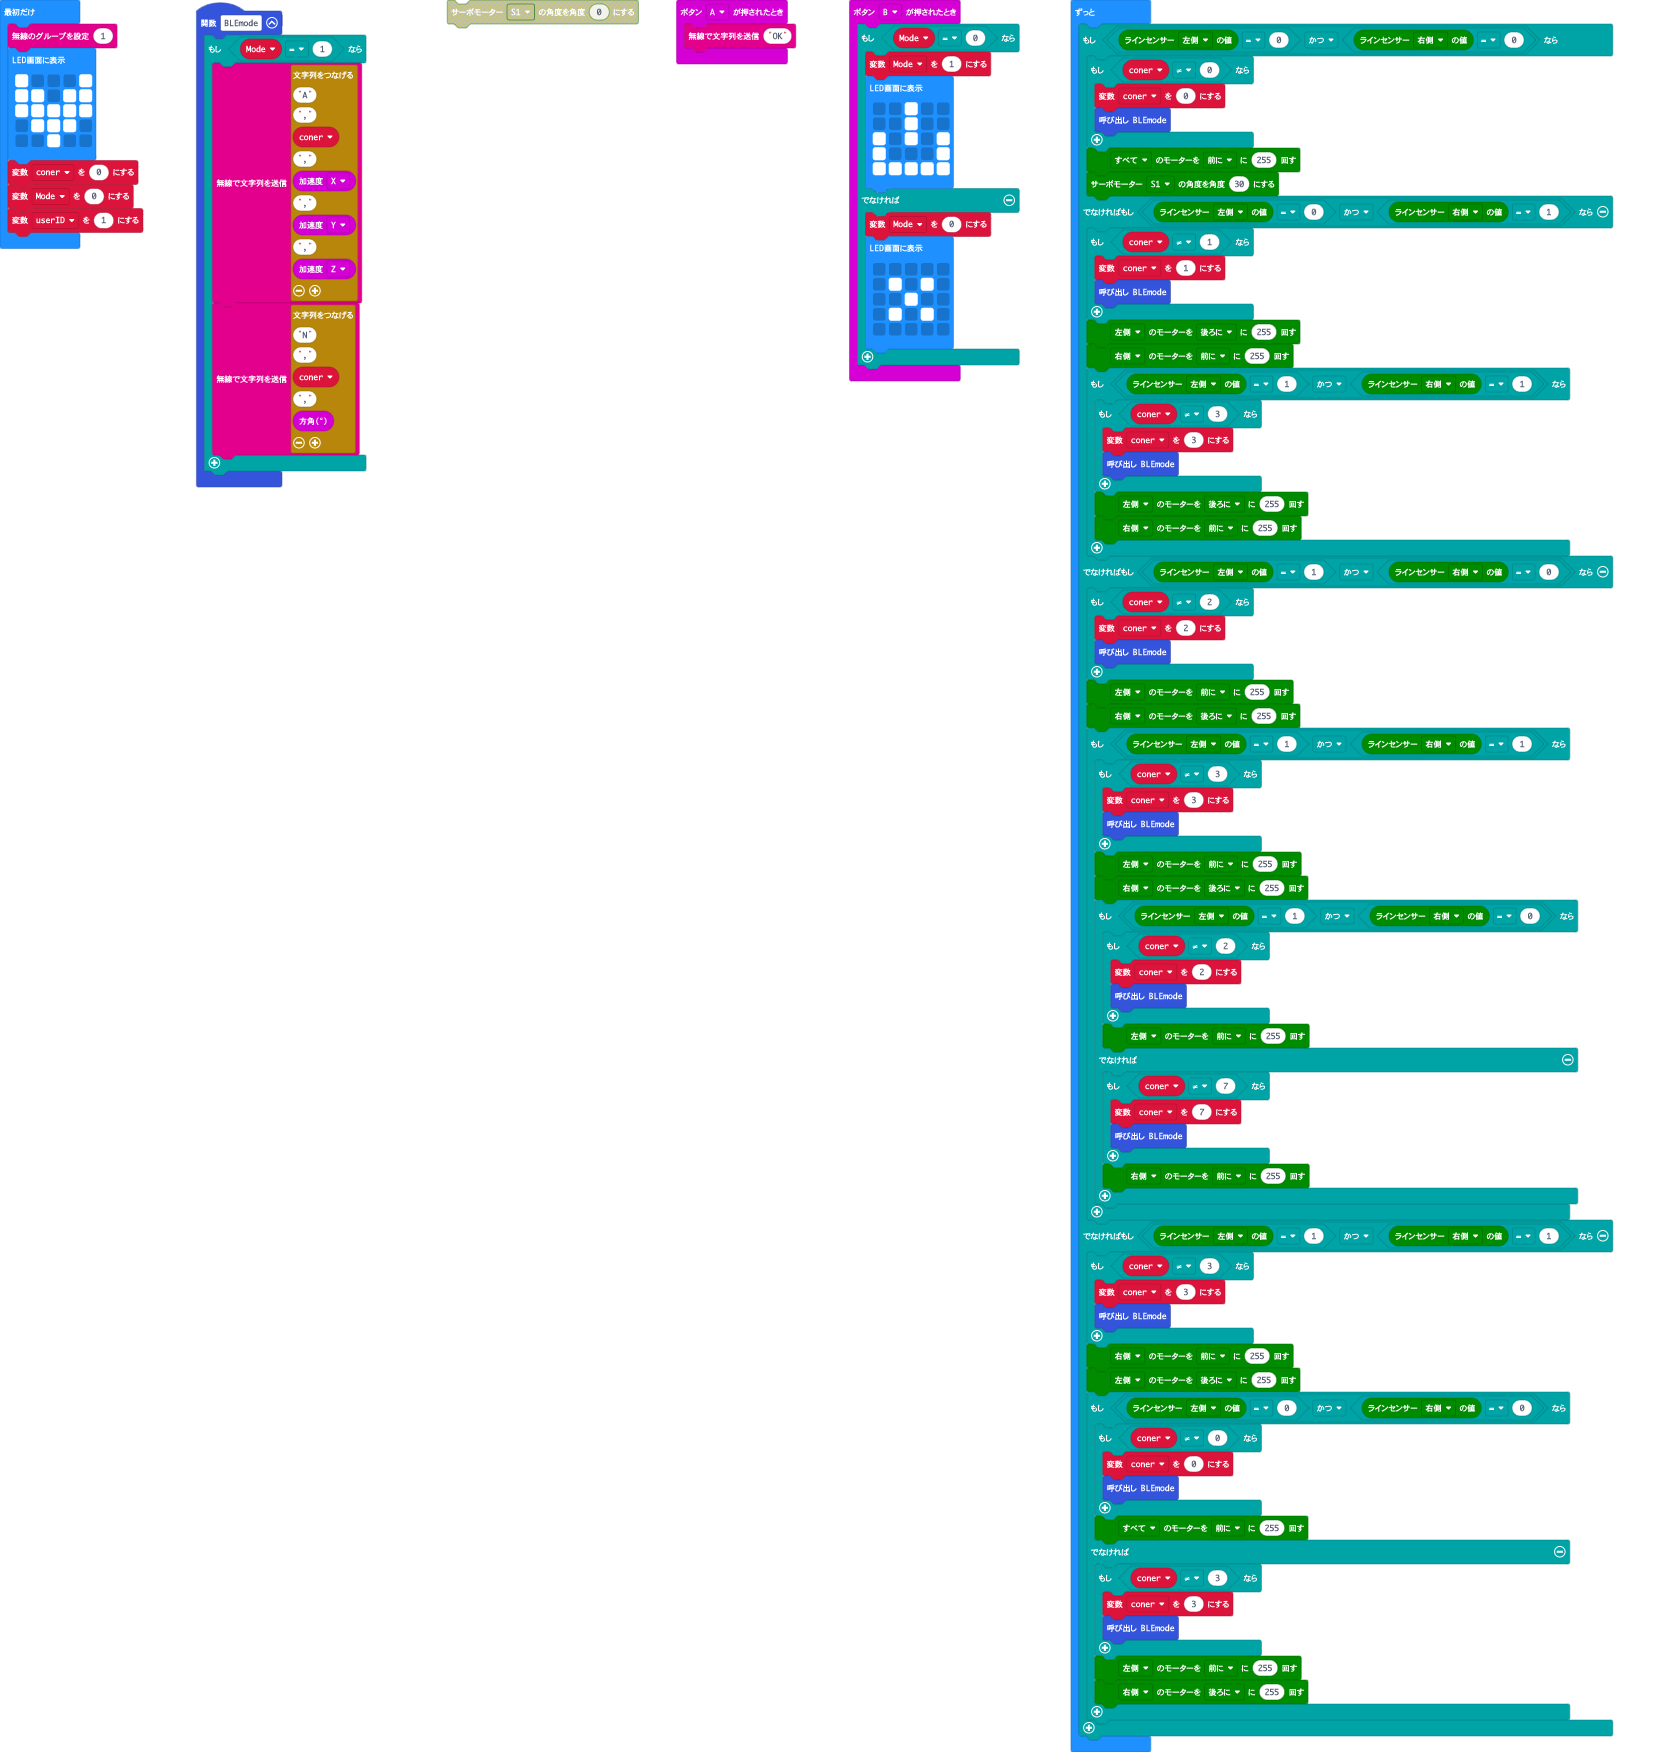
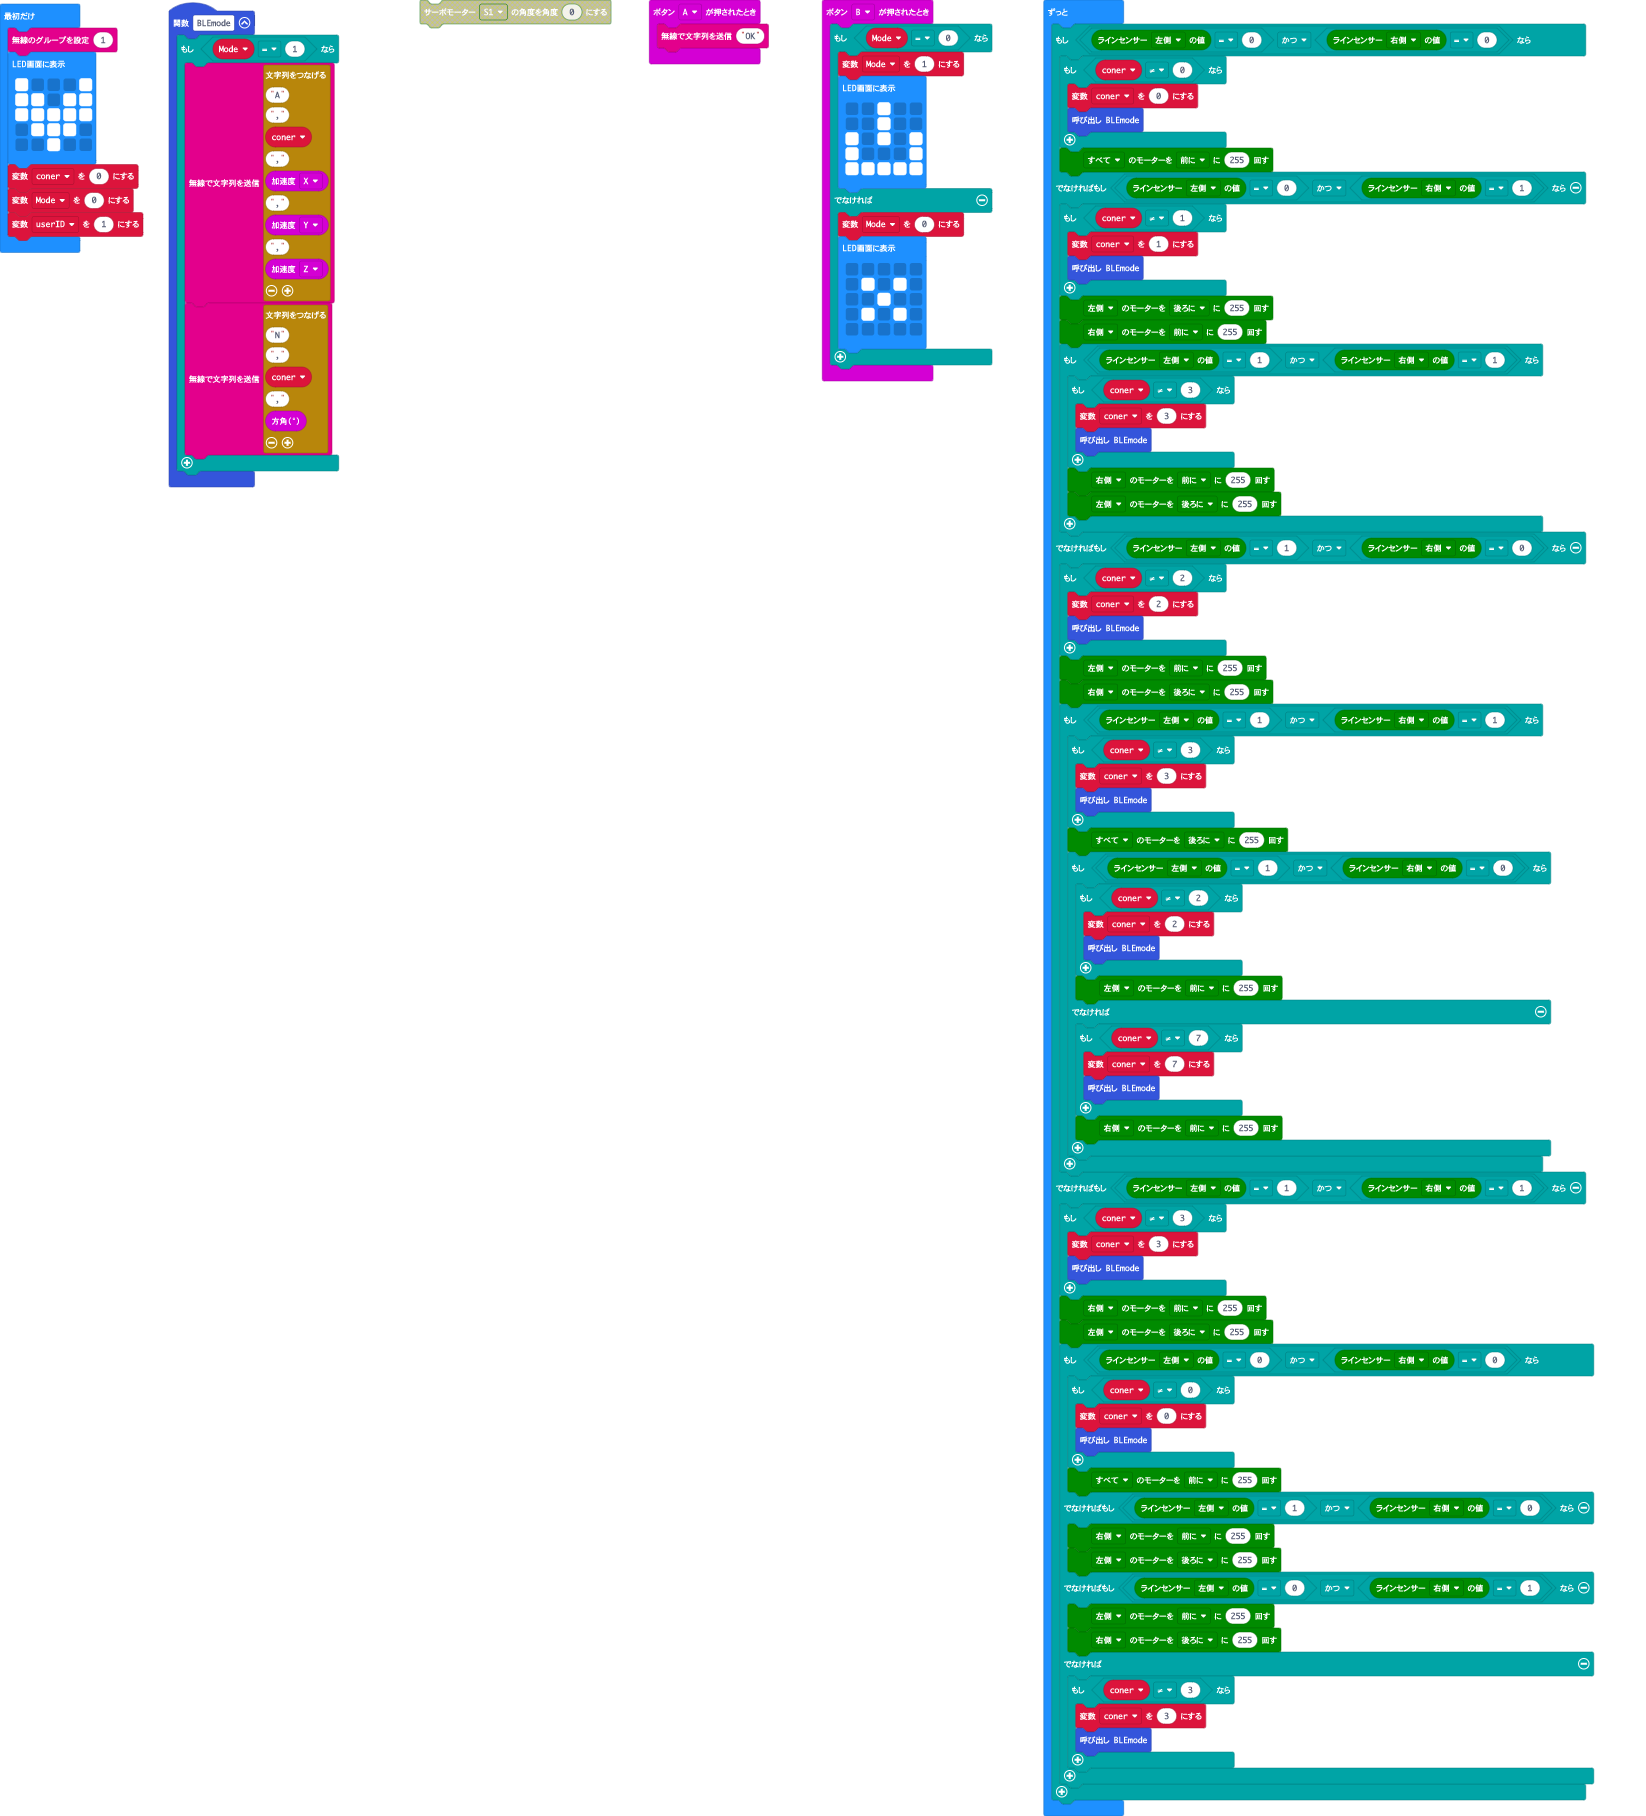
どちらでもいけるモードに

diff --git a/main.ts b/main.ts
@@ -48,7 +48,6 @@ basic.forever(function () {
             BLEmode()
         }
         maqueen.motorRun(maqueen.Motors.All, maqueen.Dir.CW, 255)
-        maqueen.servoRun(maqueen.Servos.S1, 30)
     } else if (maqueen.readPatrol(maqueen.Patrol.PatrolLeft) == 0 && maqueen.readPatrol(maqueen.Patrol.PatrolRight) == 1) {
         if (coner != 1) {
             coner = 1
@@ -61,8 +60,8 @@ basic.forever(function () {
                 coner = 3
                 BLEmode()
             }
-            maqueen.motorRun(maqueen.Motors.M1, maqueen.Dir.CCW, 255)
             maqueen.motorRun(maqueen.Motors.M2, maqueen.Dir.CW, 255)
+            maqueen.motorRun(maqueen.Motors.M1, maqueen.Dir.CCW, 255)
         }
     } else if (maqueen.readPatrol(maqueen.Patrol.PatrolLeft) == 1 && maqueen.readPatrol(maqueen.Patrol.PatrolRight) == 0) {
         if (coner != 2) {
@@ -76,8 +75,7 @@ basic.forever(function () {
                 coner = 3
                 BLEmode()
             }
-            maqueen.motorRun(maqueen.Motors.M1, maqueen.Dir.CW, 255)
-            maqueen.motorRun(maqueen.Motors.M2, maqueen.Dir.CCW, 255)
+            maqueen.motorRun(maqueen.Motors.All, maqueen.Dir.CCW, 255)
             if (maqueen.readPatrol(maqueen.Patrol.PatrolLeft) == 1 && maqueen.readPatrol(maqueen.Patrol.PatrolRight) == 0) {
                 if (coner != 2) {
                     coner = 2
@@ -105,13 +103,17 @@ basic.forever(function () {
                 BLEmode()
             }
             maqueen.motorRun(maqueen.Motors.All, maqueen.Dir.CW, 255)
+        } else if (maqueen.readPatrol(maqueen.Patrol.PatrolLeft) == 1 && maqueen.readPatrol(maqueen.Patrol.PatrolRight) == 0) {
+            maqueen.motorRun(maqueen.Motors.M2, maqueen.Dir.CW, 255)
+            maqueen.motorRun(maqueen.Motors.M1, maqueen.Dir.CCW, 255)
+        } else if (maqueen.readPatrol(maqueen.Patrol.PatrolLeft) == 0 && maqueen.readPatrol(maqueen.Patrol.PatrolRight) == 1) {
+            maqueen.motorRun(maqueen.Motors.M1, maqueen.Dir.CW, 255)
+            maqueen.motorRun(maqueen.Motors.M2, maqueen.Dir.CCW, 255)
         } else {
             if (coner != 3) {
                 coner = 3
                 BLEmode()
             }
-            maqueen.motorRun(maqueen.Motors.M1, maqueen.Dir.CW, 255)
-            maqueen.motorRun(maqueen.Motors.M2, maqueen.Dir.CCW, 255)
         }
     }
 })
